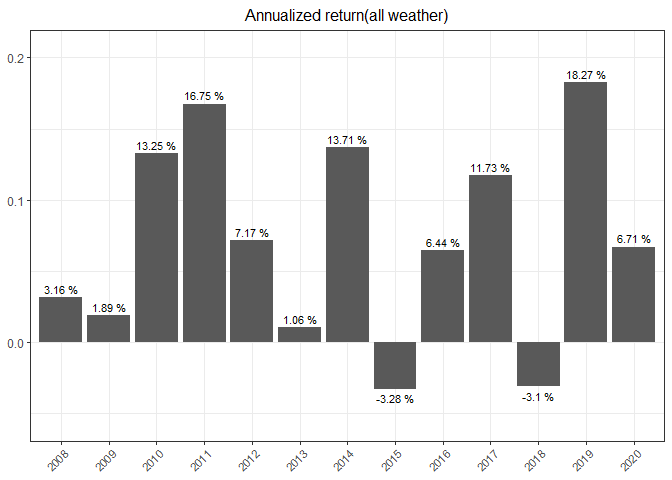
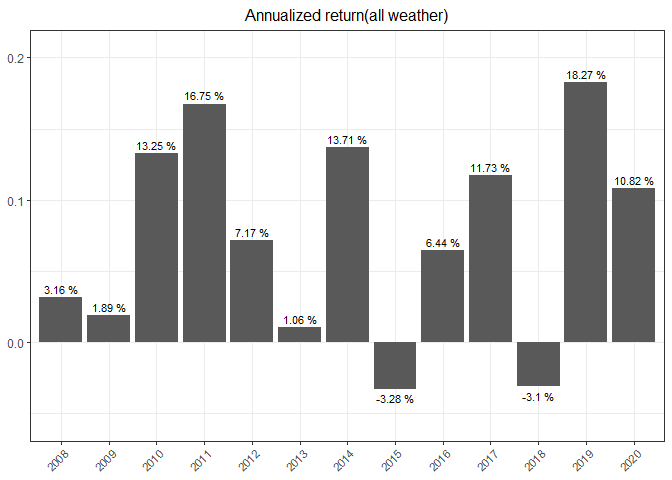
updates(2020.7)

Changed region(s): [[0.9062, 0.3438, 1.0, 0.5312]]

diff --git a/all_weather.md b/all_weather.md
@@ -1,11 +1,11 @@
 All weather & Global dynamic asset allocation strategy
 ================
 
-Comparing all weather portfolio strategy by Ray Dalio with Glbal dynamic
-asset allocation
+Comparing all weather portfolio strategy by Ray Dalio with Global
+dynamic asset allocation
 strategy.(reference:<https://github.com/hyunyulhenry/GDAA>)
 
-### All weather portfolio by Ray Dalio
+## All weather portfolio by Ray Dalio
 
 Asstet allocation that is supposed to be able to weather any economic
 storm(inflation, low economic growth, etc), manage risk exposure, and
@@ -15,7 +15,7 @@ The all weather portfolio asset allocation consists of 40% US long-term
 bonds, 30% US\_stock ETF, 15% US intermediate-term bonds, 7.5% Gold ETF,
 and 7.5% Commodity ETF. And this strategy makes rebalancing annually.
 
-#### Download ETF price data and data cleansing
+### Download ETF price data and data cleansing
 
 ``` r
 ticker = c('VTI', # All US stocks
@@ -38,7 +38,7 @@ prices = do.call(cbind, lapply(ticker, function(x) Ad(get(x)))) %>% setNames(tic
 rets = Return.calculate(prices) %>% na.omit() %>% window(., start = '2008-01-02')
 ```
 
-#### Correlation Plot
+### Correlation Plot
 
 ``` r
 cor(rets) %>% corrplot(method = 'color', type = 'upper',
@@ -50,11 +50,11 @@ cor(rets) %>% corrplot(method = 'color', type = 'upper',
 
 ![](all_weather_files/figure-gfm/corplot-1.png)<!-- -->
 
-#### Prices trend
+### Prices trend
 
 ![](all_weather_files/figure-gfm/trend_1-1.png)<!-- -->
 
-#### Backtesting with ‘Return.portfolio’ function
+### Backtesting with ‘Return.portfolio’ function
 
 ``` r
 portfolio_all_g = Return.portfolio(R = rets, weights = c(0.3, 0.4, 0.15, 0.075, 0.075),
@@ -74,21 +74,21 @@ Port_all_net = portfolio_all_g$returns - (Port_all_turnover * fee)
 names(Port_all_net) = 'Returns_allweather'
 ```
 
-#### Backtesting results
+### Backtesting results
 
 ![](all_weather_files/figure-gfm/result-1.png)<!-- -->
 
 ![](all_weather_files/figure-gfm/chart-1.png)<!-- -->
 
-#### Summarization(All weather)
+### Summarization(All weather)
 
 |             | Cummulative\_return | Annualized\_return | Max\_drawdown | Annualized\_std |
 | ----------- | ------------------: | -----------------: | ------------: | --------------: |
-| All Weather |            1.407484 |          0.0736708 |     0.1448199 |       0.0761641 |
+| All Weather |            1.500165 |          0.0761437 |       0.14482 |       0.0760562 |
 
 Table1: Summarization(All weather
 
-### GDAA(Global Dynamic Asset Allocation) Strategy
+## GDAA(Global Dynamic Asset Allocation) Strategy
 
 1.  Choose 5 ETFs with high returns in the past 3\~12 months among 10
     global ETFs
@@ -98,7 +98,7 @@ Table1: Summarization(All weather
 
 3.  Rebalance portfolio monthly
 
-#### Download ETF price data and data cleansing
+### Download ETF price data and data cleansing
 
 ``` r
 ticker = c('VTI', # All US stocks
@@ -126,7 +126,7 @@ prices = do.call(cbind, lapply(ticker, function(x) Ad(get(x)))) %>% setNames(tic
 rets = Return.calculate(prices) %>% na.omit()
 ```
 
-#### Correlation plot
+### Correlation plot
 
 ``` r
 cor(rets) %>% corrplot(method = 'color', type = 'upper',
@@ -138,11 +138,11 @@ cor(rets) %>% corrplot(method = 'color', type = 'upper',
 
 ![](all_weather_files/figure-gfm/corplot1-1.png)<!-- -->
 
-#### Prices trend
+### Prices trend
 
 ![](all_weather_files/figure-gfm/trend_2-1.png)<!-- -->
 
-#### Portfolio structuring
+### Portfolio structuring
 
 ``` r
 # Extracting indices of end of each month
@@ -186,7 +186,7 @@ for (i in (lookback + 1) : length(ep)) {
 weights = do.call(rbind, weights)
 ```
 
-#### Backtesting with ‘Return.portfolio’ function
+### Backtesting with ‘Return.portfolio’ function
 
 ``` r
 portfolio_gdaa_g = Return.portfolio(R = rets, weights,
@@ -207,64 +207,64 @@ Port_gdaa_net = portfolio_gdaa_g$returns - (Port_gdaa_turnover * fee)
 names(Port_gdaa_net) = 'Returns_gdaa'
 ```
 
-#### Backtesting results
+### Backtesting results
 
 ![](all_weather_files/figure-gfm/result_gdaa-1.png)<!-- -->
 
 ![](all_weather_files/figure-gfm/chart_gdaa-1.png)<!-- -->
 
-#### Dynamics of weights
+### Dynamics of weights
 
 |            |       VTI |       IEV |       EWJ | EEM |       TLT | IEF |       IYR |       RWX |       GLD |       DBC |
 | ---------- | --------: | --------: | --------: | --: | --------: | --: | --------: | --------: | --------: | --------: |
-| 2017-07-31 | 0.3000000 | 0.1000000 | 0.2994066 | 0.1 | 0.0000000 | 0.0 | 0.0000000 | 0.2005934 | 0.0000000 | 0.0000000 |
 | 2017-08-31 | 0.3000000 | 0.1000000 | 0.2000000 | 0.1 | 0.0000000 | 0.0 | 0.0000000 | 0.0000000 | 0.3000000 | 0.0000000 |
 | 2017-09-29 | 0.3000000 | 0.1000000 | 0.3000000 | 0.1 | 0.0000000 | 0.0 | 0.0000000 | 0.2000000 | 0.0000000 | 0.0000000 |
-| 2017-10-31 | 0.3000000 | 0.1058331 | 0.3000000 | 0.1 | 0.0000000 | 0.0 | 0.0000000 | 0.0000000 | 0.0000000 | 0.1941669 |
-| 2017-11-30 | 0.3000000 | 0.1012610 | 0.2915774 | 0.1 | 0.0000000 | 0.0 | 0.0000000 | 0.0000000 | 0.0000000 | 0.2071616 |
-| 2017-12-29 | 0.3000000 | 0.1126800 | 0.2980167 | 0.1 | 0.0000000 | 0.0 | 0.0000000 | 0.0000000 | 0.0000000 | 0.1893033 |
-| 2018-01-31 | 0.3000000 | 0.1037275 | 0.2967853 | 0.1 | 0.0000000 | 0.0 | 0.0000000 | 0.0000000 | 0.0000000 | 0.1994872 |
-| 2018-02-28 | 0.3000000 | 0.1036824 | 0.1963176 | 0.1 | 0.0000000 | 0.0 | 0.0000000 | 0.0000000 | 0.0000000 | 0.3000000 |
-| 2018-03-29 | 0.1678454 | 0.0000000 | 0.1321546 | 0.1 | 0.0000000 | 0.0 | 0.0000000 | 0.3000000 | 0.0000000 | 0.3000000 |
-| 2018-04-30 | 0.1314922 | 0.0000000 | 0.1685078 | 0.1 | 0.0000000 | 0.0 | 0.0000000 | 0.3000000 | 0.0000000 | 0.3000000 |
-| 2018-05-31 | 0.1338929 | 0.0000000 | 0.1661071 | 0.1 | 0.0000000 | 0.0 | 0.0000000 | 0.3000000 | 0.0000000 | 0.3000000 |
-| 2018-06-29 | 0.1000000 | 0.0000000 | 0.1000000 | 0.0 | 0.0000000 | 0.0 | 0.2037782 | 0.2962218 | 0.0000000 | 0.3000000 |
-| 2018-07-31 | 0.1000000 | 0.1000000 | 0.0000000 | 0.0 | 0.0000000 | 0.0 | 0.2507946 | 0.2492054 | 0.0000000 | 0.3000000 |
-| 2018-08-31 | 0.1641841 | 0.0000000 | 0.0000000 | 0.0 | 0.3000000 | 0.0 | 0.1000000 | 0.2112503 | 0.0000000 | 0.2245656 |
-| 2018-09-28 | 0.1057626 | 0.0000000 | 0.1000000 | 0.0 | 0.0000000 | 0.3 | 0.2192068 | 0.0000000 | 0.0000000 | 0.2750306 |
-| 2018-10-31 | 0.1420530 | 0.0000000 | 0.0000000 | 0.0 | 0.0000000 | 0.3 | 0.1360437 | 0.0000000 | 0.3000000 | 0.1219033 |
-| 2018-11-30 | 0.1396579 | 0.0000000 | 0.0000000 | 0.0 | 0.1964442 | 0.3 | 0.1000000 | 0.0000000 | 0.2638979 | 0.0000000 |
-| 2018-12-31 | 0.0000000 | 0.0000000 | 0.0000000 | 0.0 | 0.2027635 | 0.3 | 0.1000000 | 0.1372328 | 0.2600037 | 0.0000000 |
-| 2019-01-31 | 0.0000000 | 0.0000000 | 0.0000000 | 0.0 | 0.2083361 | 0.3 | 0.1000000 | 0.1447304 | 0.2469335 | 0.0000000 |
-| 2019-02-28 | 0.1418584 | 0.0000000 | 0.0000000 | 0.0 | 0.2200914 | 0.3 | 0.1000000 | 0.0000000 | 0.2380502 | 0.0000000 |
+| 2017-10-31 | 0.3000000 | 0.1058332 | 0.3000000 | 0.1 | 0.0000000 | 0.0 | 0.0000000 | 0.0000000 | 0.0000000 | 0.1941668 |
+| 2017-11-30 | 0.3000000 | 0.1012613 | 0.2915770 | 0.1 | 0.0000000 | 0.0 | 0.0000000 | 0.0000000 | 0.0000000 | 0.2071617 |
+| 2017-12-29 | 0.3000000 | 0.1126803 | 0.2980159 | 0.1 | 0.0000000 | 0.0 | 0.0000000 | 0.0000000 | 0.0000000 | 0.1893038 |
+| 2018-01-31 | 0.3000000 | 0.1037270 | 0.2967852 | 0.1 | 0.0000000 | 0.0 | 0.0000000 | 0.0000000 | 0.0000000 | 0.1994878 |
+| 2018-02-28 | 0.3000000 | 0.1036822 | 0.1963178 | 0.1 | 0.0000000 | 0.0 | 0.0000000 | 0.0000000 | 0.0000000 | 0.3000000 |
+| 2018-03-29 | 0.1678509 | 0.0000000 | 0.1321491 | 0.1 | 0.0000000 | 0.0 | 0.0000000 | 0.3000000 | 0.0000000 | 0.3000000 |
+| 2018-04-30 | 0.1314966 | 0.0000000 | 0.1685034 | 0.1 | 0.0000000 | 0.0 | 0.0000000 | 0.3000000 | 0.0000000 | 0.3000000 |
+| 2018-05-31 | 0.1338967 | 0.0000000 | 0.1661033 | 0.1 | 0.0000000 | 0.0 | 0.0000000 | 0.3000000 | 0.0000000 | 0.3000000 |
+| 2018-06-29 | 0.1000000 | 0.0000000 | 0.1000000 | 0.0 | 0.0000000 | 0.0 | 0.2037792 | 0.2962208 | 0.0000000 | 0.3000000 |
+| 2018-07-31 | 0.1000000 | 0.1000000 | 0.0000000 | 0.0 | 0.0000000 | 0.0 | 0.2507956 | 0.2492044 | 0.0000000 | 0.3000000 |
+| 2018-08-31 | 0.1641876 | 0.0000000 | 0.0000000 | 0.0 | 0.3000000 | 0.0 | 0.1000000 | 0.2112468 | 0.0000000 | 0.2245655 |
+| 2018-09-28 | 0.1057658 | 0.0000000 | 0.1000000 | 0.0 | 0.0000000 | 0.3 | 0.2192041 | 0.0000000 | 0.0000000 | 0.2750301 |
+| 2018-10-31 | 0.1420543 | 0.0000000 | 0.0000000 | 0.0 | 0.0000000 | 0.3 | 0.1360428 | 0.0000000 | 0.3000000 | 0.1219029 |
+| 2018-11-30 | 0.1396584 | 0.0000000 | 0.0000000 | 0.0 | 0.1964447 | 0.3 | 0.1000000 | 0.0000000 | 0.2638968 | 0.0000000 |
+| 2018-12-31 | 0.0000000 | 0.0000000 | 0.0000000 | 0.0 | 0.2027641 | 0.3 | 0.1000000 | 0.1372323 | 0.2600036 | 0.0000000 |
+| 2019-01-31 | 0.0000000 | 0.0000000 | 0.0000000 | 0.0 | 0.2083369 | 0.3 | 0.1000000 | 0.1447301 | 0.2469331 | 0.0000000 |
+| 2019-02-28 | 0.1418585 | 0.0000000 | 0.0000000 | 0.0 | 0.2200922 | 0.3 | 0.1000000 | 0.0000000 | 0.2380493 | 0.0000000 |
 | 2019-03-29 | 0.1000000 | 0.0000000 | 0.0000000 | 0.0 | 0.3000000 | 0.3 | 0.1000000 | 0.2000000 | 0.0000000 | 0.0000000 |
-| 2019-04-30 | 0.1972981 | 0.0000000 | 0.0000000 | 0.1 | 0.3000000 | 0.3 | 0.1027019 | 0.0000000 | 0.0000000 | 0.0000000 |
-| 2019-05-31 | 0.0000000 | 0.0000000 | 0.0000000 | 0.0 | 0.2172949 | 0.3 | 0.1000000 | 0.2200065 | 0.1626987 | 0.0000000 |
-| 2019-06-28 | 0.1681037 | 0.0000000 | 0.0000000 | 0.0 | 0.2448221 | 0.3 | 0.1000000 | 0.0000000 | 0.1870742 | 0.0000000 |
-| 2019-07-31 | 0.1801246 | 0.0000000 | 0.0000000 | 0.0 | 0.2782800 | 0.3 | 0.1000000 | 0.0000000 | 0.1415954 | 0.0000000 |
-| 2019-08-30 | 0.1974381 | 0.0000000 | 0.0000000 | 0.0 | 0.2559442 | 0.3 | 0.1000000 | 0.0000000 | 0.1466177 | 0.0000000 |
-| 2019-09-30 | 0.2165916 | 0.0000000 | 0.0000000 | 0.0 | 0.2409678 | 0.3 | 0.1000000 | 0.0000000 | 0.1424407 | 0.0000000 |
-| 2019-10-31 | 0.0000000 | 0.0000000 | 0.1661672 | 0.0 | 0.3000000 | 0.0 | 0.1000000 | 0.2782451 | 0.1555877 | 0.0000000 |
-| 2019-11-29 | 0.1665988 | 0.0000000 | 0.1979515 | 0.0 | 0.3000000 | 0.0 | 0.1000000 | 0.0000000 | 0.2354496 | 0.0000000 |
-| 2019-12-31 | 0.1000000 | 0.1035466 | 0.2542407 | 0.0 | 0.0000000 | 0.0 | 0.2422127 | 0.0000000 | 0.3000000 | 0.0000000 |
-| 2020-01-31 | 0.2916081 | 0.1368060 | 0.0000000 | 0.0 | 0.3000000 | 0.0 | 0.1000000 | 0.0000000 | 0.1715860 | 0.0000000 |
-| 2020-02-28 | 0.3000000 | 0.0000000 | 0.0000000 | 0.0 | 0.1954117 | 0.3 | 0.1000000 | 0.0000000 | 0.1045883 | 0.0000000 |
-| 2020-03-31 | 0.1000000 | 0.0000000 | 0.2046341 | 0.0 | 0.2096465 | 0.3 | 0.0000000 | 0.0000000 | 0.1857194 | 0.0000000 |
-| 2020-04-30 | 0.1000000 | 0.0000000 | 0.1835562 | 0.0 | 0.2304615 | 0.3 | 0.0000000 | 0.0000000 | 0.1859823 | 0.0000000 |
-| 2020-05-29 | 0.1000000 | 0.0000000 | 0.1863170 | 0.0 | 0.2307673 | 0.3 | 0.0000000 | 0.0000000 | 0.1829157 | 0.0000000 |
-| 2020-06-05 | 0.1000000 | 0.0000000 | 0.1841164 | 0.0 | 0.2265925 | 0.3 | 0.0000000 | 0.0000000 | 0.1892911 | 0.0000000 |
+| 2019-04-30 | 0.1972992 | 0.0000000 | 0.0000000 | 0.1 | 0.3000000 | 0.3 | 0.1027008 | 0.0000000 | 0.0000000 | 0.0000000 |
+| 2019-05-31 | 0.0000000 | 0.0000000 | 0.0000000 | 0.0 | 0.2172962 | 0.3 | 0.1000000 | 0.2200059 | 0.1626979 | 0.0000000 |
+| 2019-06-28 | 0.1681038 | 0.0000000 | 0.0000000 | 0.0 | 0.2448236 | 0.3 | 0.1000000 | 0.0000000 | 0.1870726 | 0.0000000 |
+| 2019-07-31 | 0.1801248 | 0.0000000 | 0.0000000 | 0.0 | 0.2782811 | 0.3 | 0.1000000 | 0.0000000 | 0.1415941 | 0.0000000 |
+| 2019-08-30 | 0.1974382 | 0.0000000 | 0.0000000 | 0.0 | 0.2559454 | 0.3 | 0.1000000 | 0.0000000 | 0.1466164 | 0.0000000 |
+| 2019-09-30 | 0.2165917 | 0.0000000 | 0.0000000 | 0.0 | 0.2409689 | 0.3 | 0.1000000 | 0.0000000 | 0.1424395 | 0.0000000 |
+| 2019-10-31 | 0.0000000 | 0.0000000 | 0.1661671 | 0.0 | 0.3000000 | 0.0 | 0.1000000 | 0.2782457 | 0.1555872 | 0.0000000 |
+| 2019-11-29 | 0.1665983 | 0.0000000 | 0.1979524 | 0.0 | 0.3000000 | 0.0 | 0.1000000 | 0.0000000 | 0.2354493 | 0.0000000 |
+| 2019-12-31 | 0.1000000 | 0.1035459 | 0.2542423 | 0.0 | 0.0000000 | 0.0 | 0.2422119 | 0.0000000 | 0.3000000 | 0.0000000 |
+| 2020-01-31 | 0.2916099 | 0.1368043 | 0.0000000 | 0.0 | 0.3000000 | 0.0 | 0.1000000 | 0.0000000 | 0.1715858 | 0.0000000 |
+| 2020-02-28 | 0.3000000 | 0.0000000 | 0.0000000 | 0.0 | 0.1954129 | 0.3 | 0.1000000 | 0.0000000 | 0.1045871 | 0.0000000 |
+| 2020-03-31 | 0.1000000 | 0.0000000 | 0.2046344 | 0.0 | 0.2096469 | 0.3 | 0.0000000 | 0.0000000 | 0.1857187 | 0.0000000 |
+| 2020-04-30 | 0.1000000 | 0.0000000 | 0.1835565 | 0.0 | 0.2304618 | 0.3 | 0.0000000 | 0.0000000 | 0.1859817 | 0.0000000 |
+| 2020-05-29 | 0.1000000 | 0.0000000 | 0.1863173 | 0.0 | 0.2307676 | 0.3 | 0.0000000 | 0.0000000 | 0.1829151 | 0.0000000 |
+| 2020-06-30 | 0.1279612 | 0.0000000 | 0.0000000 | 0.1 | 0.2465920 | 0.3 | 0.0000000 | 0.0000000 | 0.2254468 | 0.0000000 |
+| 2020-07-10 | 0.1206065 | 0.0000000 | 0.0000000 | 0.1 | 0.2364305 | 0.3 | 0.0000000 | 0.0000000 | 0.2429630 | 0.0000000 |
 
 Table2: Weights
 
-#### Summarization(GDAA)
+### Summarization(GDAA)
 
 |      | Cummulative\_return | Annualized\_return | Max\_drawdown | Annualized\_std |
 | ---- | ------------------: | -----------------: | ------------: | --------------: |
-| GDAA |            1.381675 |          0.0755971 |     0.1631828 |        0.106658 |
+| GDAA |            1.466815 |          0.0778441 |     0.1631826 |       0.1063875 |
 
 Table3: Summarization(GDAA)
 
-### All weather vs GDAA
+## All weather vs GDAA
 
 Compare results of both strategies
 
@@ -276,9 +276,9 @@ charts.PerformanceSummary(portfolios, main = 'All weather vs GDAA')
 
 ![](all_weather_files/figure-gfm/compare-1.png)<!-- -->
 
-#### Summarization(All Weather vs GDAA)
+### Summarization(All Weather vs GDAA)
 
 |             | Annualized\_return | Cummulative\_return | Max\_drawdown | Annualized\_std |
 | ----------- | -----------------: | ------------------: | ------------: | --------------: |
-| All Weather |          0.0736708 |            1.407484 |     0.1448199 |       0.0761641 |
-| GDAA        |          0.0755971 |            1.381675 |     0.1631828 |       0.1066580 |
+| All Weather |          0.0761437 |            1.500165 |     0.1448200 |       0.0760562 |
+| GDAA        |          0.0778441 |            1.466815 |     0.1631826 |       0.1063875 |
